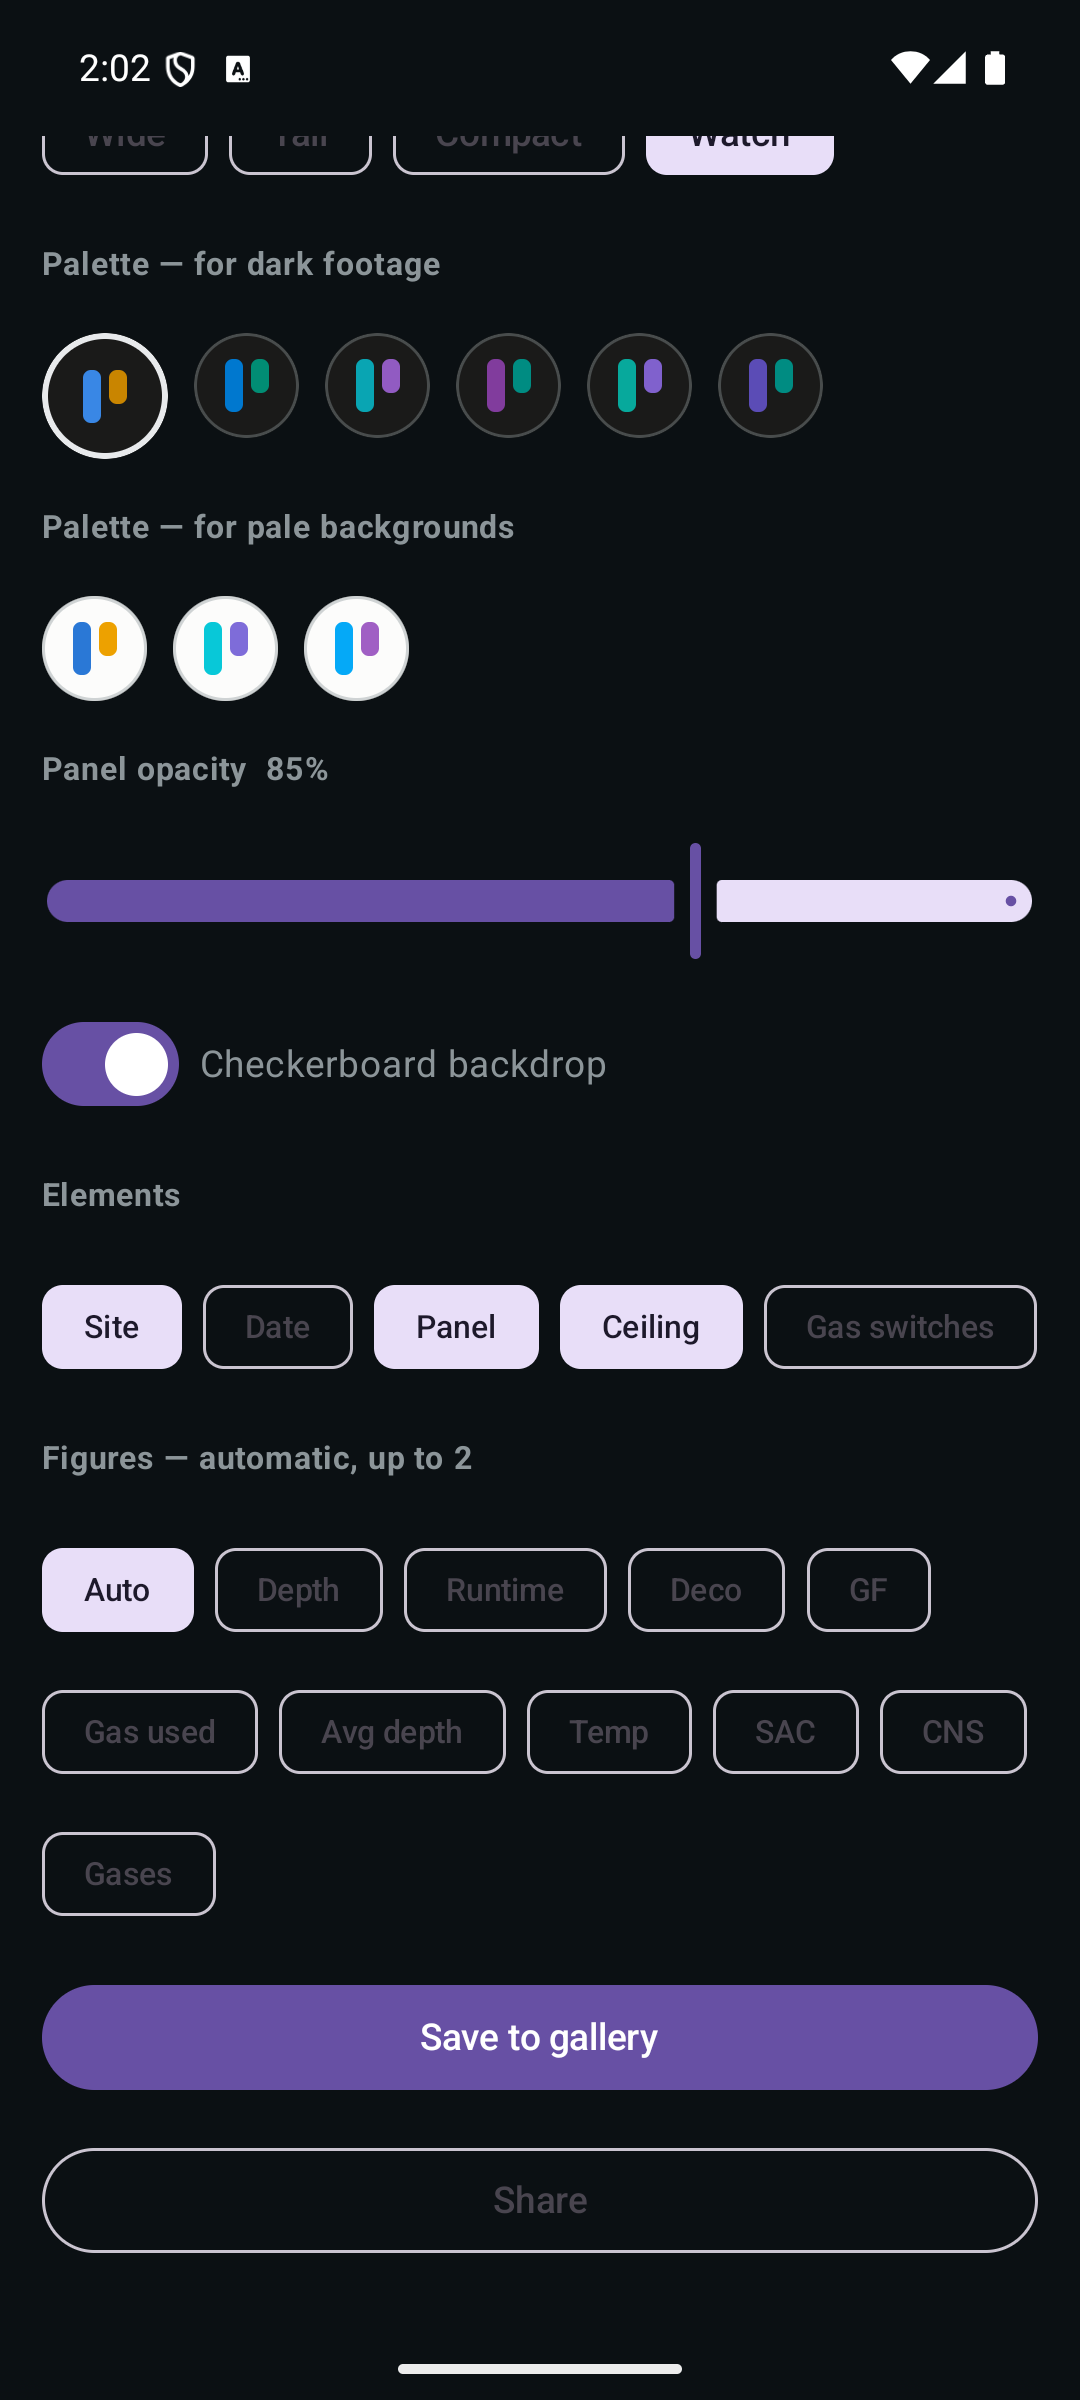
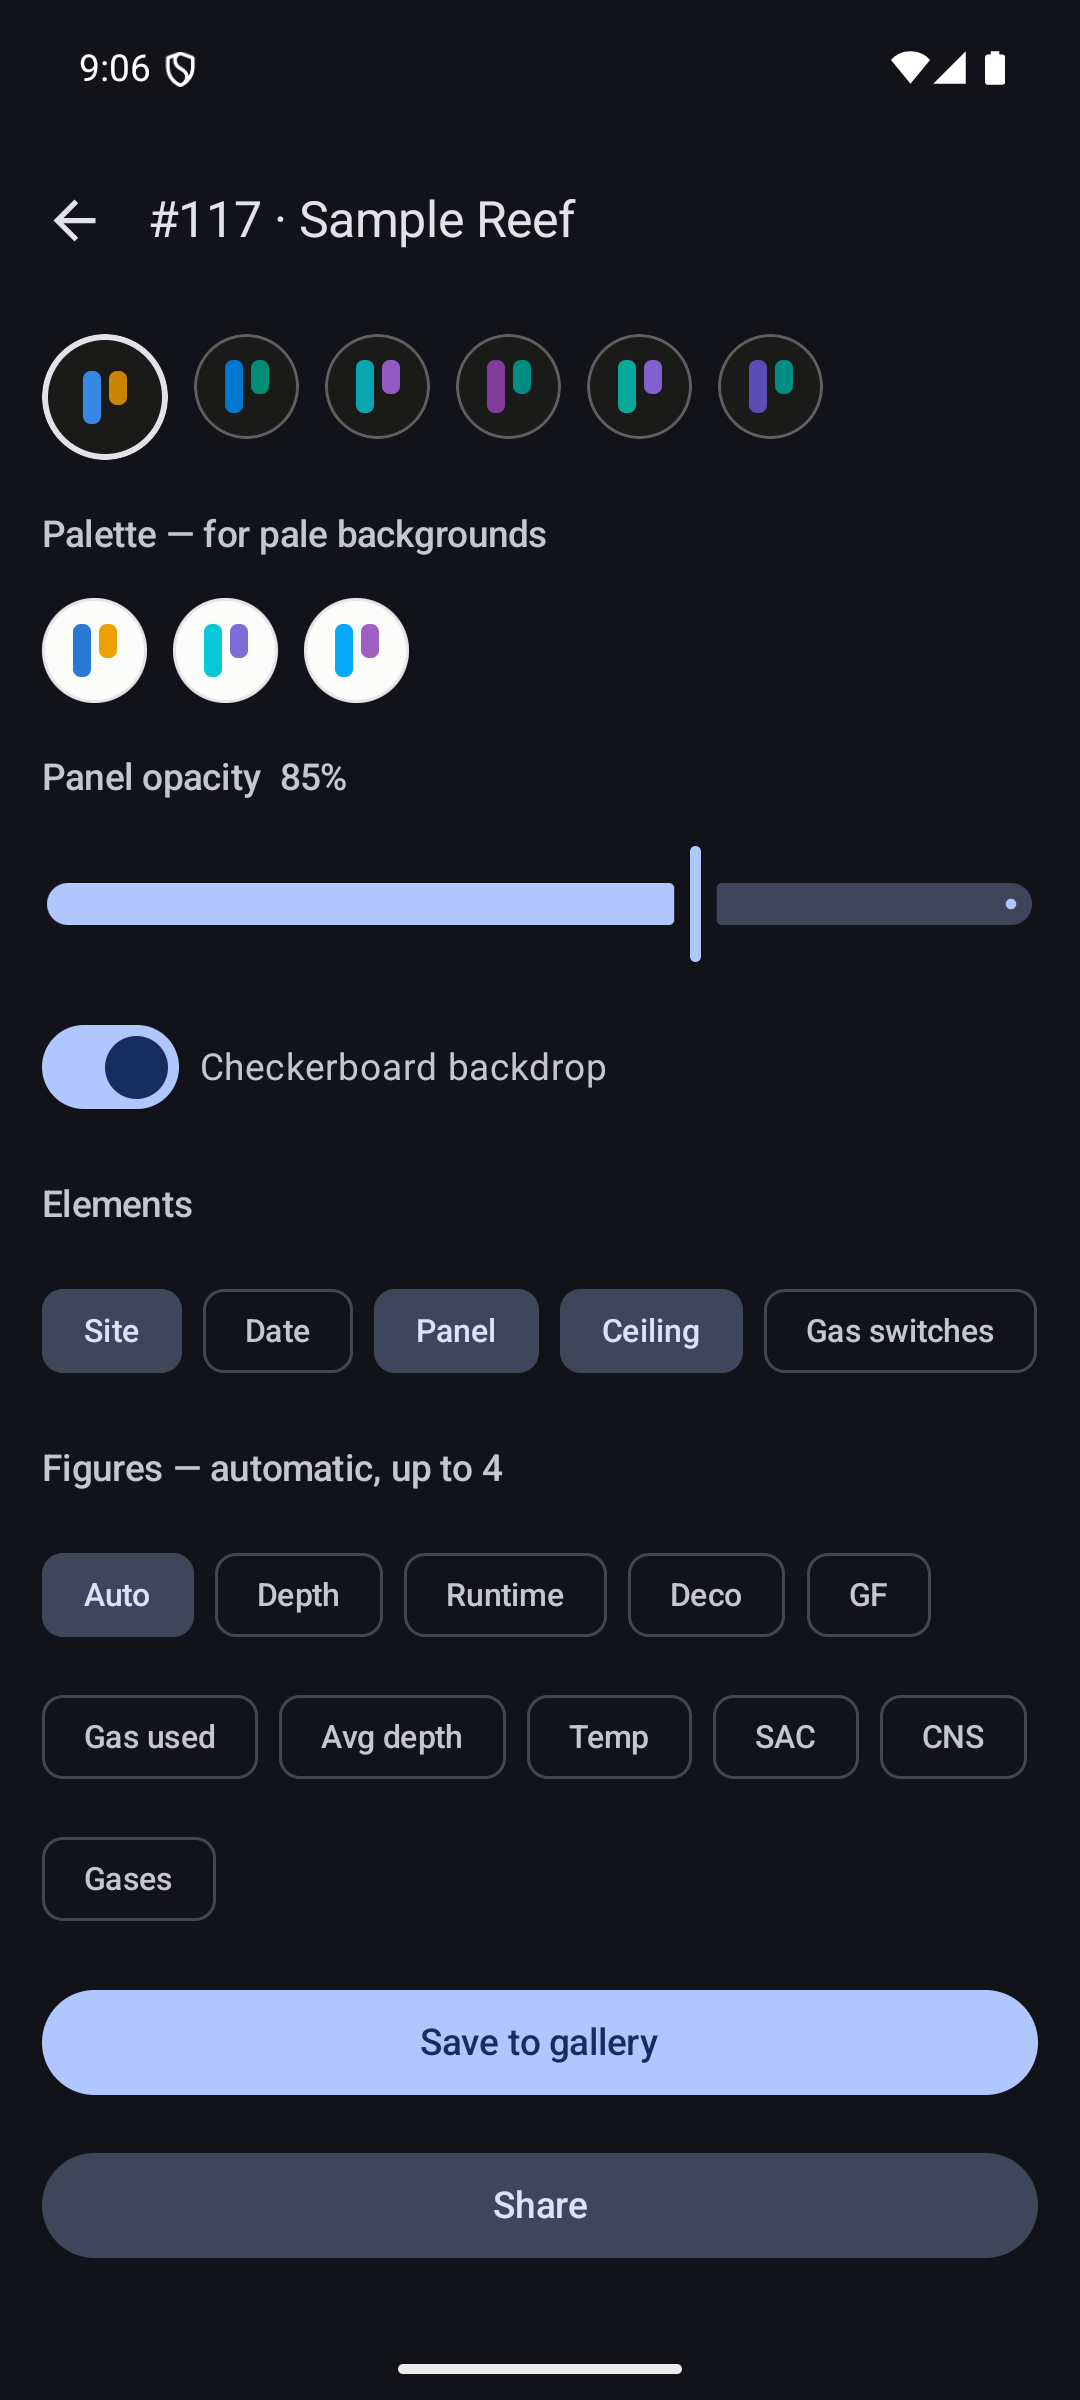
Retake the screenshots, and stop the splash flashing white
The two app screenshots still showed the pre-Material 3 UI. Retaken on the
same dive as before — #117 Sample Reef, so the figures the surrounding
prose quotes still match — now with the app bar, the segmented layout
picker and a wallpaper-derived accent.

Added a third for the trip section, since selection is the part that
cannot be inferred from prose: two files grouped under their own
headings, a selection spanning both, and the dive that cannot be drawn
sitting there with its reason and no circle to tick.

The README now says the accent follows the wallpaper, because a reader
would otherwise take one phone's blue for the app's own — and says in the
same breath that the slate never follows it.

Separately, and not caused by any of this: the launch splash flashed
white on every cold start. From API 31 the system draws the icon on
windowSplashScreenBackground and does not fall back to windowBackground
when it is unset, so a dark app got the platform default. Verified
against the pre-Material-3 theme, which does it too. values-v31 sets it;
below 31 the legacy path already used windowBackground.

diff --git a/README.md b/README.md
@@ -78,26 +78,43 @@ rather choose.
 same file to the system chooser, which is as useful in a video editor as it is
 in a message.
 
+The app follows **Material You**, so on Android 12+ the accent comes from your
+wallpaper — these screenshots show one phone's, not a fixed colour. The slate
+itself never changes with it: those palettes were admitted by measured contrast
+tests, and a colour picked off a home screen has not been through them.
+
 </td>
 </tr>
 </table>
 
 ## A trip at a time
 
-Hold a dive in the list to start picking, then take as many as you want —
-**Select all**, or **All** on a file's heading to take just that trip. The
-editor previews them one at a time with `‹ ›` while every control applies to
-the whole set, so a trip's slates come out looking like a set rather than like
-twelve separate exports.
+<table>
+<tr>
+<td width="34%"><img src="docs/images/app-select.png" alt="The dive list in selection mode, grouped by file, with three dives picked across two files"></td>
+<td>
 
-Two things the batch is careful not to hide, because a slate that is quietly
-missing or quietly thinner than the one you designed is indistinguishable from
-a log that never recorded the dive:
+Hold a dive to start picking, then take as many as you want — **Select all**, or
+**All** on a file's heading to take just that trip. Open several files at once
+and they stay grouped under the file they came from, so two logbooks never blur
+into one list.
 
-- **A dive with no depth samples cannot be drawn**, so the list refuses it and
-  says why on the row, rather than accepting it and dropping it later.
-- **A figure you picked that other dives never recorded** is counted up front —
+The editor previews the picked dives one at a time with `‹ ›` while every
+control applies to the whole set, so a trip's slates come out matching rather
+than looking like twelve separate exports.
+
+Two things the batch will not hide, because a slate that is quietly missing —
+or quietly thinner than the one you designed — is indistinguishable from a log
+that never recorded the dive:
+
+- **A dive with no depth samples cannot be drawn.** The list refuses it and says
+  so on the row, rather than accepting it and dropping it at export.
+- **A figure you picked that the others never recorded** is counted up front —
   *"GF is missing on 3 of 6"* — because you chose it while looking at one dive.
+
+</td>
+</tr>
+</table>
 
 Each slate lands as its own PNG, named for the export time, the dive number and
 the site. Sharing a batch works too, though most apps will only accept an image
